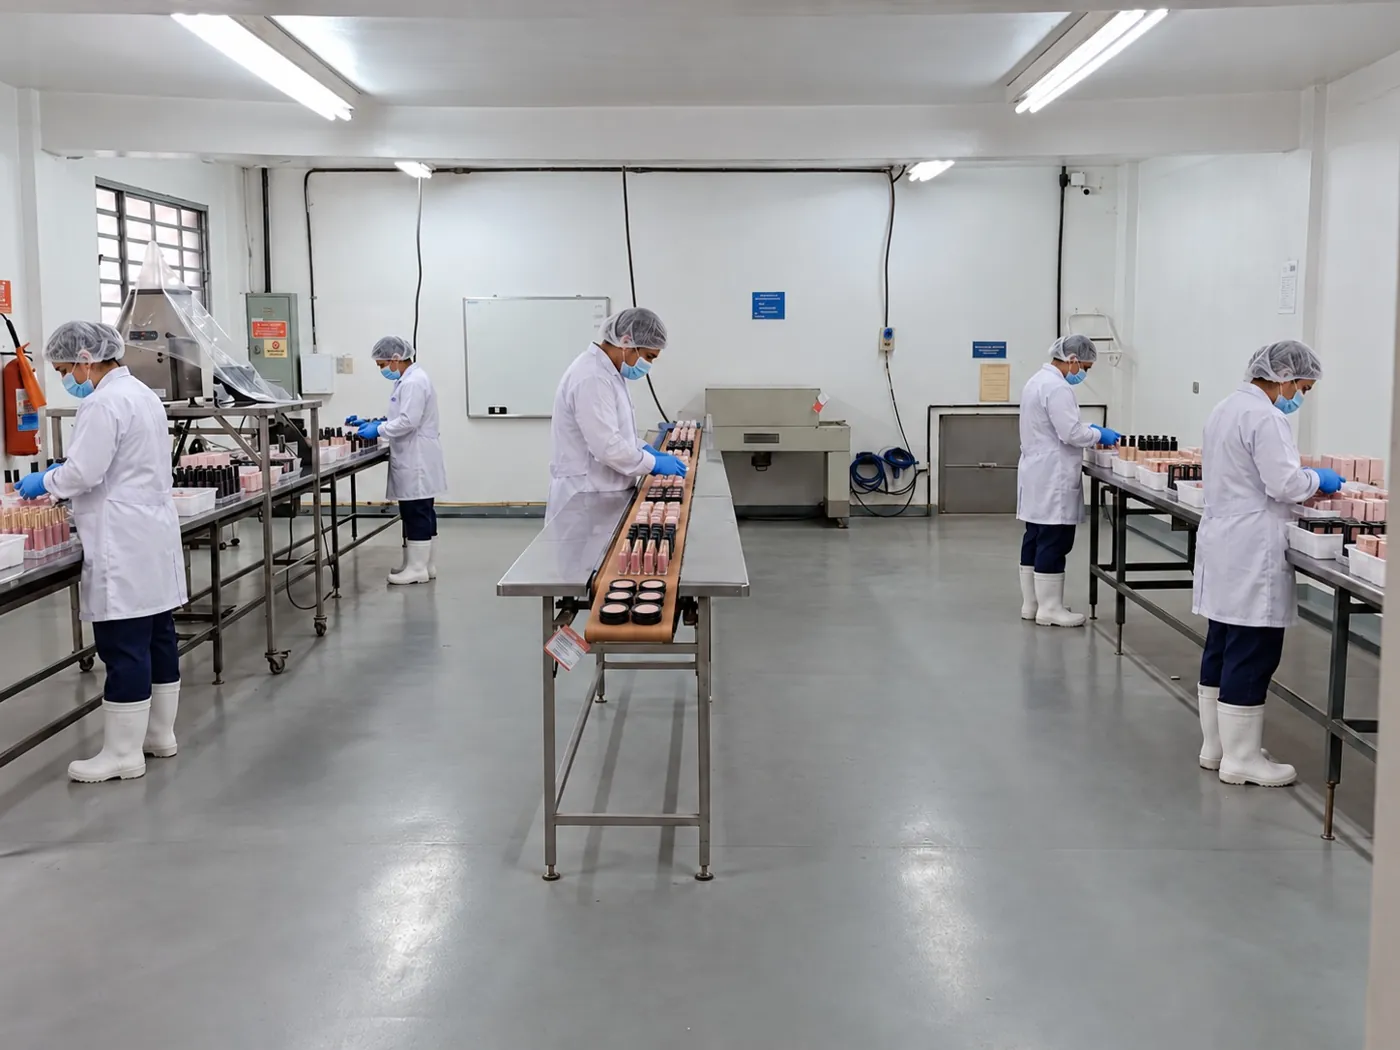
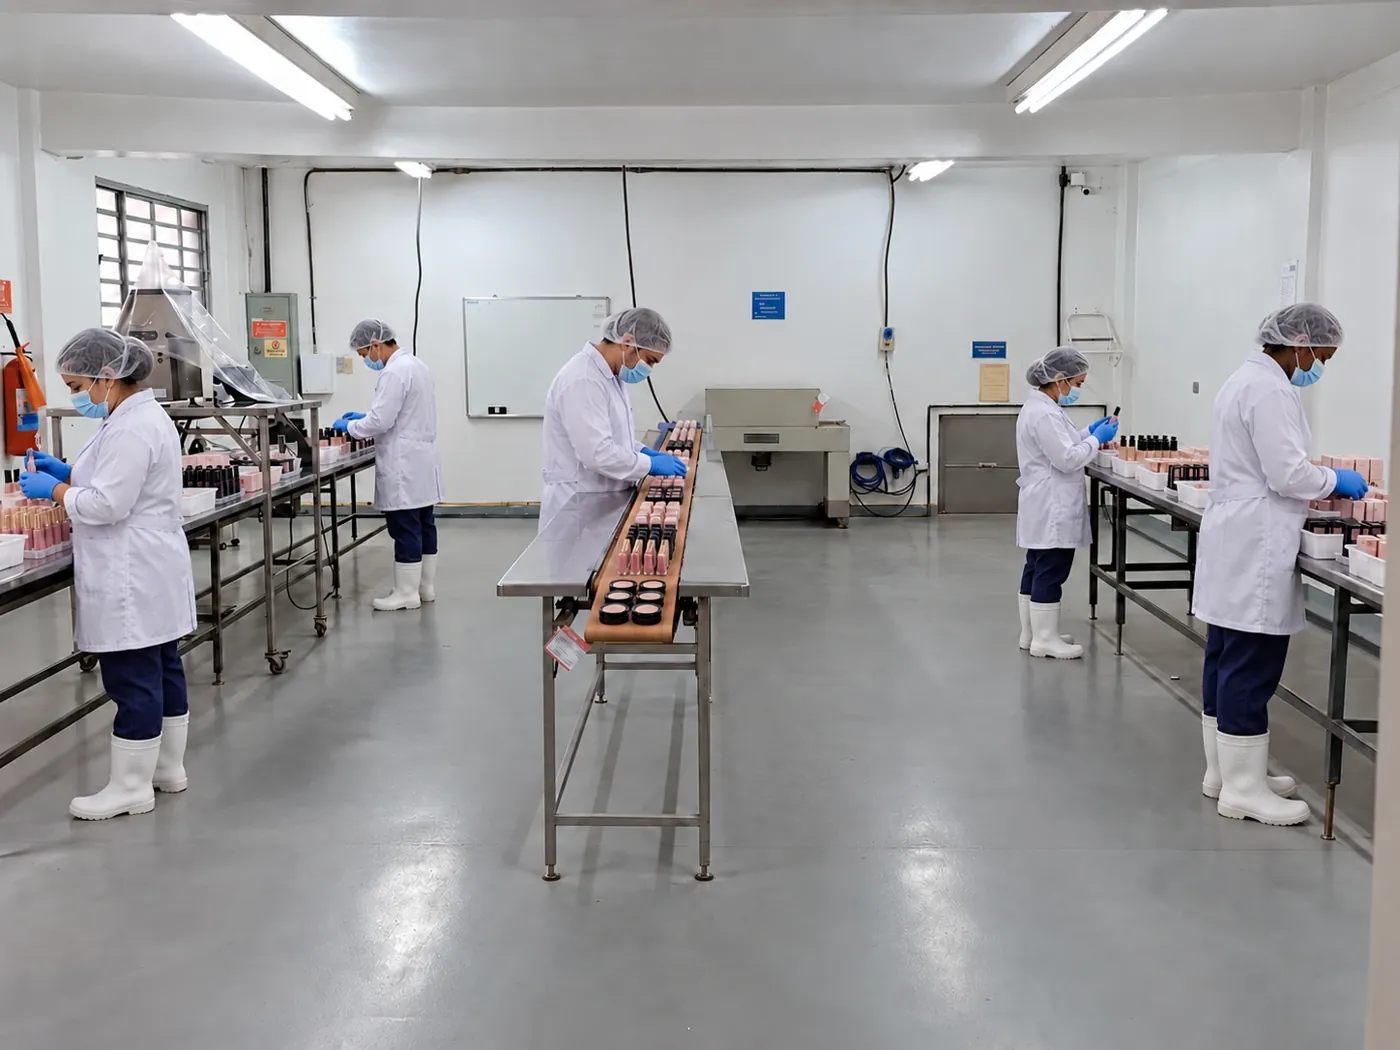
Troca a foto da equipe na esteira (Nossa fábrica) pela nova versão
Mesmo enquadramento e tamanho (1400x1050). O endereço da imagem ganha
?v=2 para quem já visitou o site não continuar vendo a foto antiga.

Claude-Session: https://claude.ai/code/session_01AvSTACi2QpmYCDk1NWS1gv

diff --git a/index.html b/index.html
@@ -201,7 +201,7 @@
           <p class="lead">Estrutura própria em São Paulo: produção, envase, conferência e embalagem no mesmo lugar, com equipe paramentada e controle de qualidade em cada etapa.</p>
         </div>
         <div class="factory__grid reveal">
-          <figure class="factory__ph factory__ph--a"><img src="assets/img/fabrica/embalagem.webp" draggable="false" width="1400" height="1050" alt="Equipe paramentada montando e embalando produtos de maquiagem em bancadas de aço inox e esteira" loading="lazy" /></figure>
+          <figure class="factory__ph factory__ph--a"><img src="assets/img/fabrica/embalagem.webp?v=2" draggable="false" width="1400" height="1050" alt="Equipe paramentada montando e embalando produtos de maquiagem em bancadas de aço inox e esteira" loading="lazy" /></figure>
           <figure class="factory__ph factory__ph--b"><img src="assets/img/fabrica/entrada.webp" draggable="false" width="1050" height="1400" alt="Entrada da área de produção da Garnet, com portas abertas para o salão de máquinas" loading="lazy" /></figure>
           <figure class="factory__ph factory__ph--c"><img src="assets/img/fabrica/fachada.webp" draggable="false" width="1050" height="1400" alt="Fachada do prédio da fábrica da Garnet com jardim iluminado" loading="lazy" /></figure>
           <figure class="factory__ph factory__ph--d"><img src="assets/img/fabrica/producao-maquinas.webp" draggable="false" width="1400" height="1050" alt="Operadores em máquinas de prensagem e envase na linha de produção" loading="lazy" /></figure>
